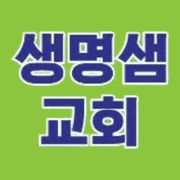
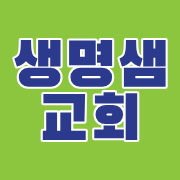
헤더 로고를 벡터(SVG) 배지로 교체, 크기 34px/모바일 28px 고정, 파비콘·OG 이미지 벡터에서 재생성, CSS 캐시 갱신

diff --git a/index.html b/index.html
@@ -6,6 +6,7 @@
 <title>생명샘교회 | 오직 영혼구원 · 서울 관악구</title>
 <meta name="description" content="생명샘교회 — 영·육을 치유하고 생명을 살리는 교회. 서울특별시 관악구 쑥고개로 84 지하 1층. 대한예수교장로회 백석 한남노회.">
 <meta name="theme-color" content="#0c284a">
+<link rel="icon" type="image/svg+xml" href="assets/favicon.svg?v=2">
 <link rel="icon" type="image/png" sizes="64x64" href="assets/favicon.png">
 <link rel="icon" type="image/png" sizes="32x32" href="assets/favicon-32.png">
 <link rel="icon" type="image/png" sizes="512x512" href="assets/favicon-512.png">
@@ -15,17 +16,17 @@
 <meta property="og:title" content="생명샘교회 | 오직 영혼구원 · 서울 관악구">
 <meta property="og:description" content="영·육을 치유하고 생명을 살리는 교회. 서울특별시 관악구 쑥고개로 84 지하 1층.">
 <meta property="og:url" content="https://ayct88.github.io/saengmyeongsaem/">
-<meta property="og:image" content="https://ayct88.github.io/saengmyeongsaem/assets/og-image.png">
+<meta property="og:image" content="https://ayct88.github.io/saengmyeongsaem/assets/og-image.png?v=2">
 <meta property="og:image:width" content="1200">
 <meta property="og:image:height" content="630">
 <meta name="twitter:card" content="summary_large_image">
-<meta name="twitter:image" content="https://ayct88.github.io/saengmyeongsaem/assets/og-image.png">
+<meta name="twitter:image" content="https://ayct88.github.io/saengmyeongsaem/assets/og-image.png?v=2">
 <link rel="stylesheet" href="https://cdn.jsdelivr.net/gh/orioncactus/pretendard@v1.3.9/dist/web/static/pretendard.min.css">
-<link rel="stylesheet" href="style.css">
+<link rel="stylesheet" href="style.css?v=2">
 </head>
 <body>
 <header class="topbar" id="topbar">
-  <a class="brand" href="#top" aria-label="생명샘교회 처음으로"><img class="logo" src="assets/logo_banner.png" alt="생명샘교회" width="682" height="181"><span class="brand-txt"><small>대한예수교장로회 백석</small></span></a>
+  <a class="brand" href="#top" aria-label="생명샘교회 처음으로"><img class="logo" src="assets/logo.svg?v=2" alt="생명샘교회" width="157" height="34"></a>
   <button class="menu-btn" aria-expanded="false" aria-controls="nav">메뉴</button>
   <nav id="nav">
     <a href="#about">교회소개</a><a href="#worship">예배안내</a><a href="#videos">설교·찬양</a><a href="#board">교회소식</a>
@@ -209,7 +210,7 @@
 </main>
 
 <footer class="footer">
-  <img class="flogo" src="assets/logo_banner.png" alt="" width="682" height="181" loading="lazy">
+  <img class="flogo" src="assets/logo.svg?v=2" alt="" width="138" height="30" loading="lazy">
   <p><strong>생명샘교회</strong> · 대한예수교장로회 백석 한남노회</p>
   <p>서울특별시 관악구 쑥고개로 84 지하 1층 · <a href="mailto:gksix@hanmail.net">gksix@hanmail.net</a></p>
   <p class="small">“하나님 영광을 위해 살자”</p>

diff --git a/style.css b/style.css
@@ -23,10 +23,8 @@ h3{font-size:1.5rem;font-weight:700;margin:.2em 0}
 .topbar{position:fixed;top:0;left:0;right:0;z-index:30;display:flex;align-items:center;justify-content:space-between;gap:16px;padding:12px 28px;transition:background .25s,box-shadow .25s;background:linear-gradient(rgba(6,22,44,.45),transparent)}
 .topbar.solid{background:#fff;box-shadow:0 2px 14px rgba(12,40,74,.12)}
 .brand{display:flex;align-items:center;gap:12px;text-decoration:none;color:#fff}
-.logo{display:block;height:38px;width:auto;border-radius:6px;box-shadow:0 1px 6px rgba(4,20,45,.25)}
-.topbar.solid .logo{box-shadow:0 0 0 1px rgba(12,40,74,.08)}
-.brand-txt{display:flex;flex-direction:column;line-height:1.2}
-.brand-txt small{font-size:.8rem;font-weight:600;opacity:.92;letter-spacing:.06em}
+.logo{display:block;height:34px;max-height:34px;width:auto;max-width:44vw;filter:drop-shadow(0 1px 4px rgba(4,20,45,.35))}
+.topbar.solid .logo{filter:none}
 nav{display:flex;align-items:center;gap:2px;flex-wrap:wrap}
 nav a{text-decoration:none;color:#fff;font-weight:600;font-size:1.05rem;padding:8px 12px;border-radius:8px}
 nav a.pill{background:var(--lime);color:var(--navy);font-weight:700;border-radius:999px;padding:8px 20px;margin-left:8px}
@@ -126,7 +124,7 @@ table.worship{width:100%;border-collapse:separate;border-spacing:0;background:#f
 .btn.big{font-size:1.2rem;padding:16px 32px}
 .email{font-size:1.5rem;font-weight:700;margin:.6em 0 1em;word-break:break-all}
 
-.flogo{display:block;height:34px;width:auto;margin:0 auto 14px;border-radius:5px}
+.flogo{display:block;height:30px;max-height:30px;width:auto;margin:0 auto 14px}
 .footer{background:var(--navy);border-top:4px solid var(--lime);color:#dbe5f1;text-align:center;padding:44px 24px;font-size:1rem}
 .footer a{color:#fff}.footer p{margin:.3em 0}.footer .small{color:#a9bbd1}
 .toast{position:fixed;left:50%;bottom:28px;transform:translateX(-50%) translateY(20px);background:#111;color:#fff;padding:14px 22px;border-radius:12px;font-size:1.05rem;opacity:0;pointer-events:none;transition:.25s;z-index:50;max-width:90vw;text-align:center}
@@ -145,7 +143,7 @@ table.worship{width:100%;border-collapse:separate;border-spacing:0;background:#f
 @media (max-width:640px){
  body{font-size:19px}
  .topbar{padding:10px 16px}
- .logo{height:30px}.brand-txt{display:none}
+ .logo{height:28px;max-height:28px}
  .section{padding:72px 18px 64px}
  h2{font-size:1.9rem}
  .wm{top:28px}
